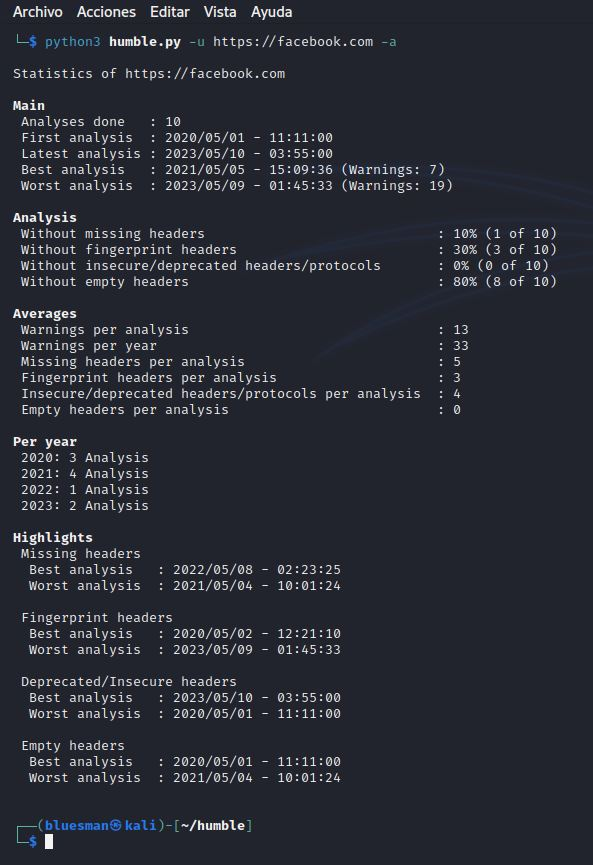
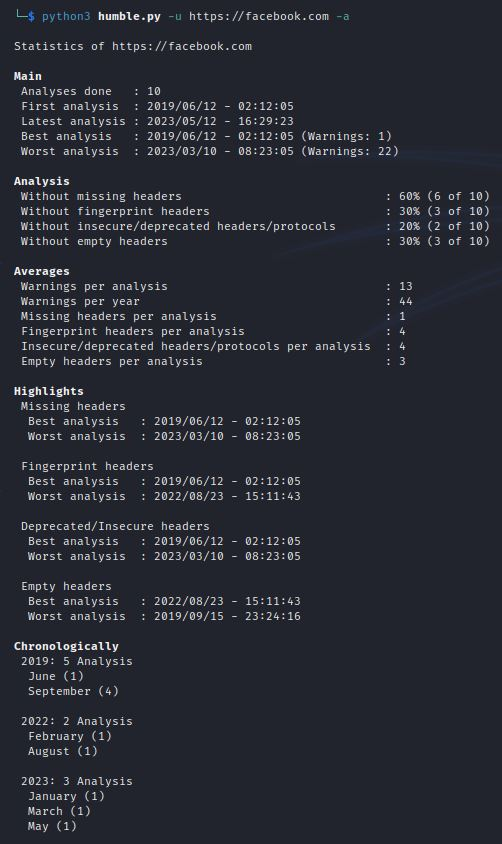
Feature: Improve statistics
Showing the total number of analyses performed per month, for each year.

diff --git a/humble.py b/humble.py
@@ -38,6 +38,7 @@
 from fpdf import FPDF
 from time import time
 from datetime import datetime
+from collections import defaultdict
 from os import linesep, path, remove
 from colorama import Fore, Style, init
 from argparse import ArgumentParser, RawDescriptionHelpFormatter
@@ -61,7 +62,7 @@ REF_S = 'Ref: '
 SEC_S = "https://"
 URL_S = ' URL  : '
 
-version = '\r\n' + '(v. 2023-05-26)' + '\r\n'
+version = '\r\n' + '(v. 2023-05-27)' + '\r\n'
 now = datetime.now().strftime("%Y/%m/%d - %H:%M:%S")
 
 
@@ -210,26 +211,47 @@ def extract_third_metrics(url_ln):
     return (avg_miss, avg_fng, avg_dep, avg_ety)
 
 
-def extract_year_metrics(url_ln):
-    year_cnt = {}
+def extract_year_month_metrics(url_ln):
+    year_cnt = defaultdict(int)
+    year_wng = defaultdict(int)
     for line in url_ln:
-        year = int(line.split(' ; ')[0][:4])
-        if year not in year_cnt:
-            year_cnt[year] = (1, int(line.split(' ; ')[-1]))
-        else:
-            year_cnt[year] = (year_cnt[year][0] + 1,
-                              year_cnt[year][1] + int(line.split(' ; ')[-1]))
-    years_str = [f" {year}: {year_cnt[year][0]} {get_detail('[analysis_y]')}"
-                 for year in sorted(year_cnt.keys())]
-    avg_w_y = (sum(count[1] for count in year_cnt.values()) // len(year_cnt))
-    return "".join(years_str), avg_w_y
+        date_str = line.split(' ; ')[0].split()[0]
+        year, _, _ = map(int, date_str.split('/'))
+        year_cnt[year] += 1
+        year_wng[year] += int(line.split(' ; ')[-1])
+    year_month_p = [(int(line.split(' ; ')[0].split('/')[0]),
+                     int(line.split(' ; ')[0].split('/')[1])) for line in
+                    url_ln]
+    year_month_p = sorted(set(year_month_p))
+    years_str = generate_year_month_group(year_cnt, url_ln)
+    avg_w_y = sum(year_wng.values()) // len(year_wng)
+    return years_str, avg_w_y, year_wng
+
+
+def generate_year_month_group(year_cnt, url_ln):
+    years_str = []
+    for year in sorted(year_cnt.keys()):
+        year_str = f" {year}: {year_cnt[year]} \
+{get_detail('[analysis_y]').rstrip()}"
+        month_counts = defaultdict(int)
+        for line in url_ln:
+            date_str = line.split(' ; ')[0].split()[0]
+            line_year, line_month, _ = map(int, date_str.split('/'))
+            if line_year == year:
+                month_name = get_detail(f'[month_{line_month:02d}]')
+                month_counts[month_name] += 1
+        months_str = '\n'.join([f" {month_name.rstrip()} ({count})" for
+                                month_name, count in month_counts.items()])
+        year_str += '\n' + months_str + '\n'
+        years_str.append(year_str)
+    return '\n'.join(years_str)
 
 
 def extract_additional_metrics(url_ln):
     avg_w = int(sum(int(line.split(' ; ')[-1]) for line in url_ln) /
                 len(url_ln))
-    year_a, avg_w_y = extract_year_metrics(url_ln)
-    return (avg_w, year_a, avg_w_y)
+    year_a, avg_w_y, month_a = extract_year_month_metrics(url_ln)
+    return (avg_w, year_a, avg_w_y, month_a)
 
 
 def extract_metrics(c_history):
@@ -283,10 +305,10 @@ def print_metrics(total_a, first_m, second_m, third_m, additional_m, fourth_m):
     averages_m = {'[average_miss]': f"{third_m[0]}", '[average_fng]':
                   f"{third_m[1]}", '[average_dep]': f"{third_m[2]}",
                   '[average_ety]': f"{third_m[3]}\n"}
-    analysis_year_m = {'[analysis_year]': f"\n{additional_m[1]}"}
+    analysis_year_m = {'[analysis_year_month]': f"\n{additional_m[1]}"}
     fourth_m = {'[highlights]': "\n" + "\n".join(fourth_m)}
-    totals_m = basic_m | error_m | warning_m | averages_m | analysis_year_m |\
-        fourth_m
+    totals_m = basic_m | error_m | warning_m | averages_m | fourth_m |\
+        analysis_year_m
     return {get_detail(key, replace=True): value for key, value in
             totals_m.items()}
 
